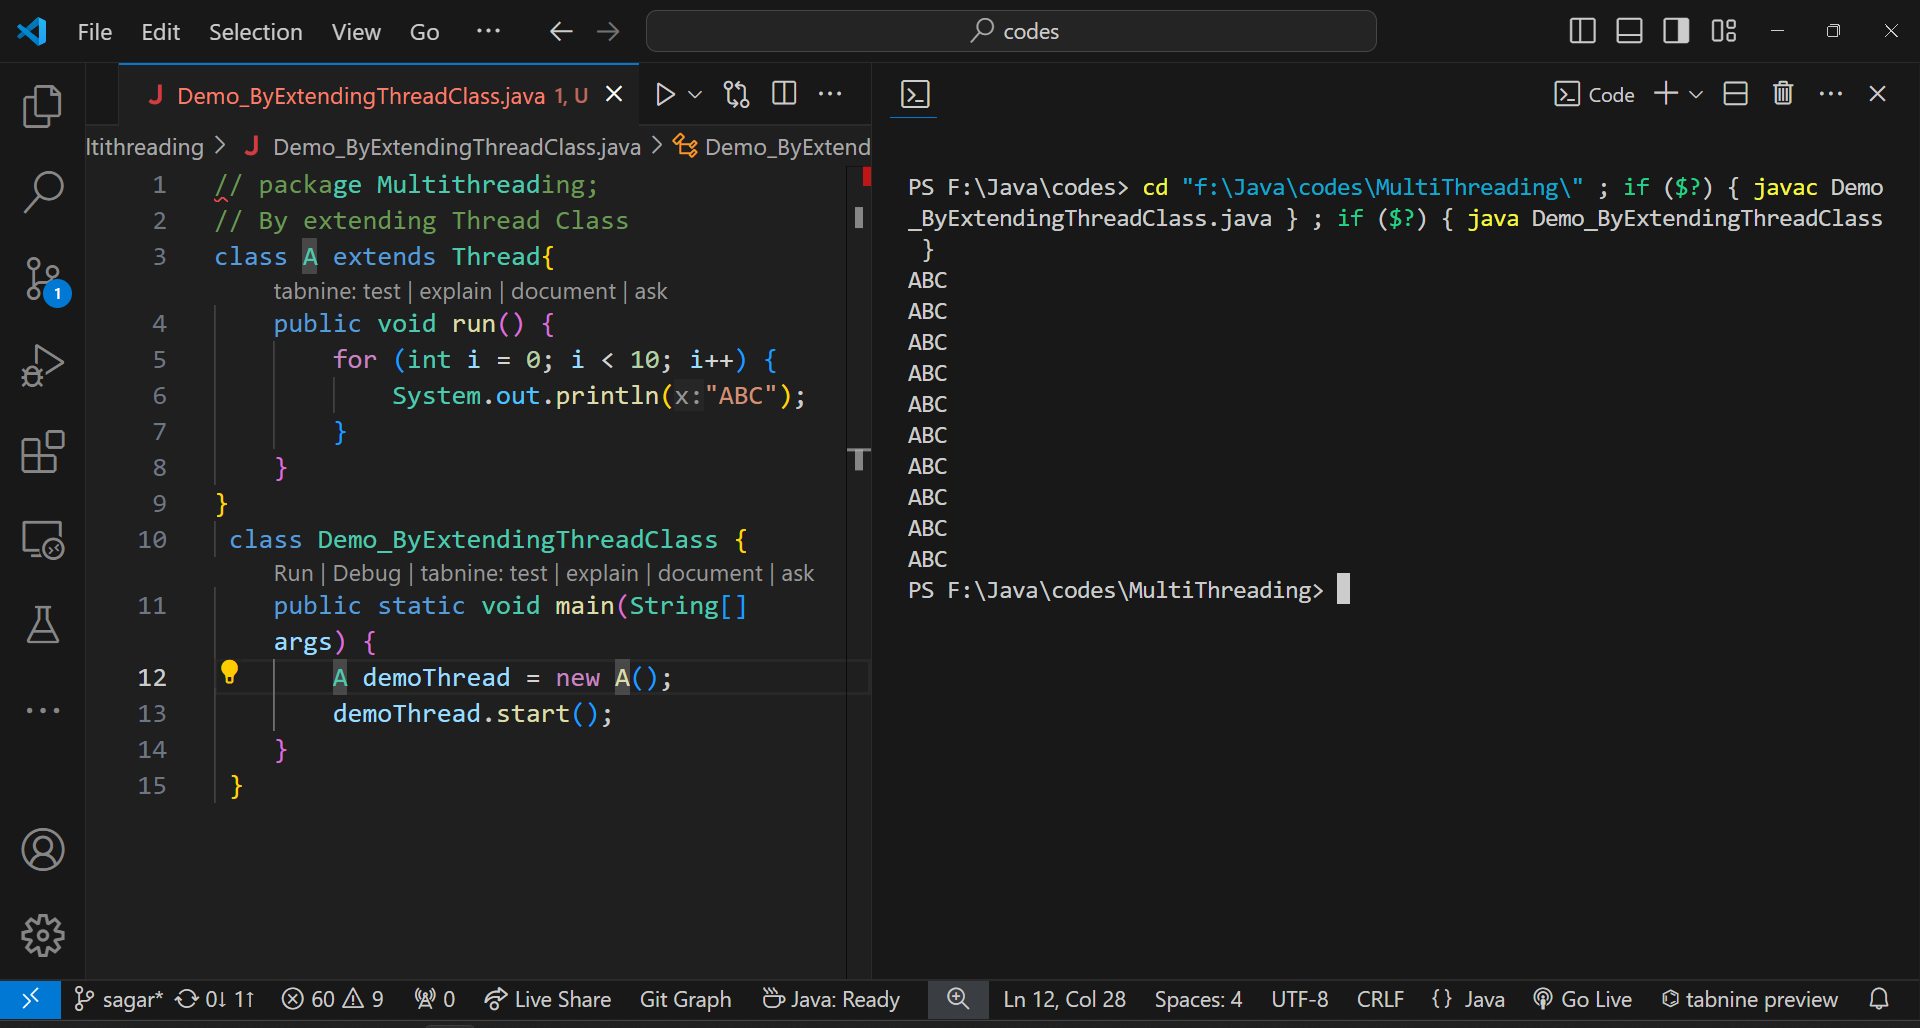
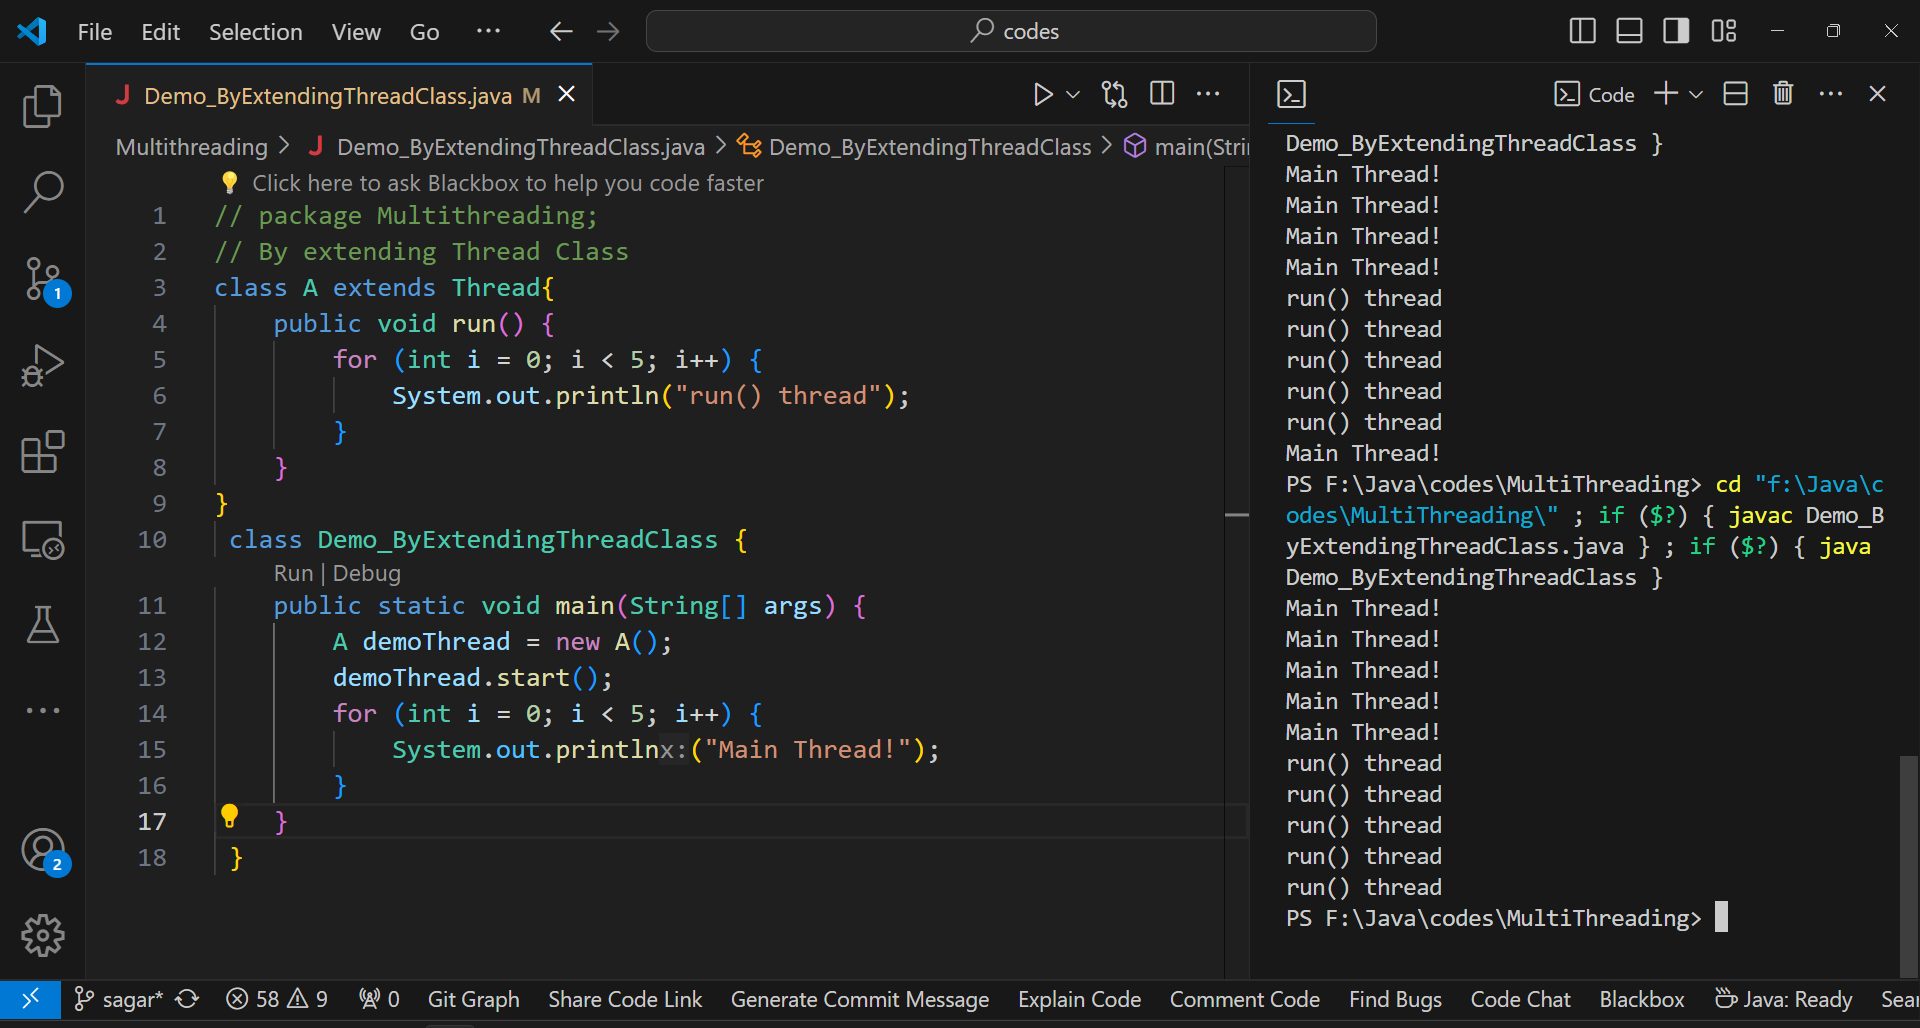
Changes and addition to files in Multithreading

diff --git a/codes/Multithreading/Demo_ByExtendingThreadClass.java b/codes/Multithreading/Demo_ByExtendingThreadClass.java
@@ -2,14 +2,27 @@
 // By extending Thread Class
 class A extends Thread{
     public void run() {
-        for (int i = 0; i < 10; i++) {
-            System.out.println("ABC");
+        try {
+            for (int i = 0; i < 5; i++) {
+                System.out.println("run() thread");
+            }
+            Thread.sleep(1000);
+        } catch (InterruptedException e) {
+            System.out.println("run() thread interrupted");
         }
     }
 }
- class Demo_ByExtendingThreadClass {
+class Demo_ByExtendingThreadClass {
     public static void main(String[] args) {
         A demoThread = new A();
         demoThread.start();
+        try {
+            for (int i = 0; i < 5; i++) {
+                System.out.println("main() thread");
+            } 
+            Thread.sleep(1000);
+        } catch (InterruptedException e) {
+            System.out.println("main() thread interrupted");
+        }
     }
- }
+}

diff --git a/codes/Multithreading/ThreadRename.java b/codes/Multithreading/ThreadRename.java
@@ -1,0 +1,27 @@
+class A extends Thread {
+    public void run() {
+        String name = Thread.currentThread().getName();
+
+        for (int i = 0; i < 2; i++) {
+            System.out.println(name + " : " + i);
+        }
+    }
+}
+class ThreadRename {
+    public static void main(String[] args) {
+        A t1 = new A();
+        A t2 = new A();
+        A t3 = new A();
+
+        t1.setName("t1");
+        t2.setName("t2");
+        t3.setName("t3");
+
+        System.out.println("t1 Thread");
+        t1.start();
+        System.out.println("t2 Thread");
+        t2.start();
+        System.out.println("t3 Thread");
+        t3.start();
+    }    
+}

diff --git a/codes/Multithreading/Demo_byImplementingRunnableClass.java b/codes/Multithreading/Demo_byImplementingRunnableClass.java
@@ -1,0 +1,22 @@
+class Demo implements Runnable {
+    public void run() {
+        try {
+            for (int i = 0; i < 4; i++) {
+                System.out.println("run() Thread!");
+            }
+            Thread.sleep(1000);
+        } catch (InterruptedException e) {
+            System.out.println("run() Thread interrupted");
+        }
+    }
+}
+class Demo_byImplementingRunnableClass {
+    public static void main(String[] args) {
+        Demo test = new Demo();
+        Thread t = new Thread(test);
+        t.start();
+        for(int i = 0; i < 4; i++) {
+            System.out.println("main() Thread!");
+        }
+    }
+}

diff --git a/codes/Multithreading/Demo2_byImplementingRunnable.java b/codes/Multithreading/Demo2_byImplementingRunnable.java
@@ -1,0 +1,20 @@
+class A {
+    void display(String str) {
+        System.out.println(str);
+    }
+}
+class Demo extends A implements Runnable {
+    public void run() {
+        System.out.println("run() thread!");
+    }
+}
+
+public class Demo2_byImplementingRunnable {
+    public static void main(String[] args) {
+        Demo demo = new Demo();
+        Thread t = new Thread(demo);
+        t.start();
+
+        System.out.println("main() thread!");
+    }
+}
